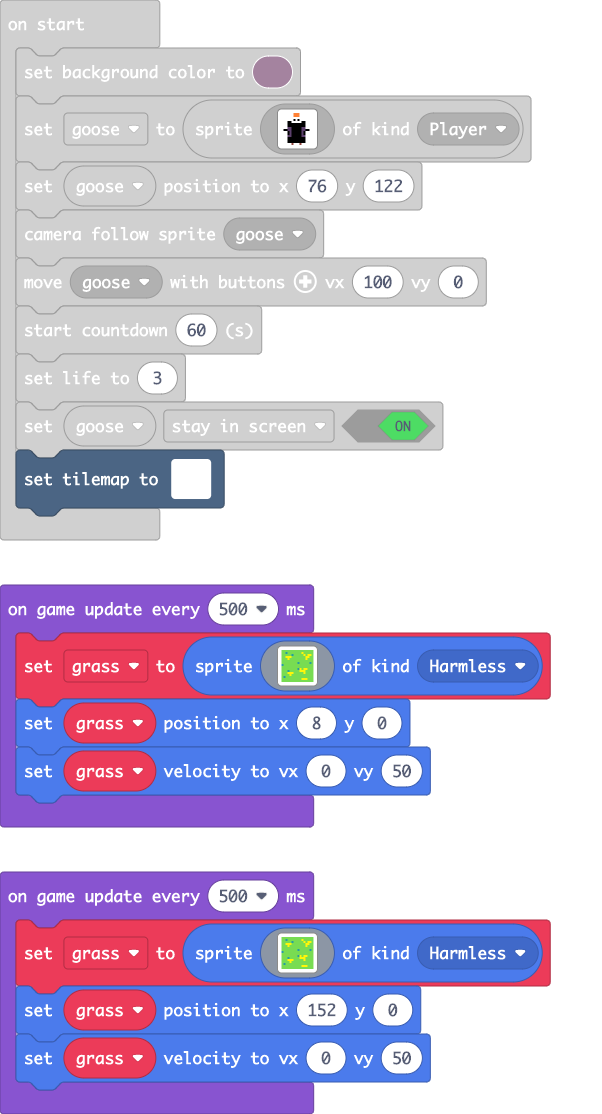
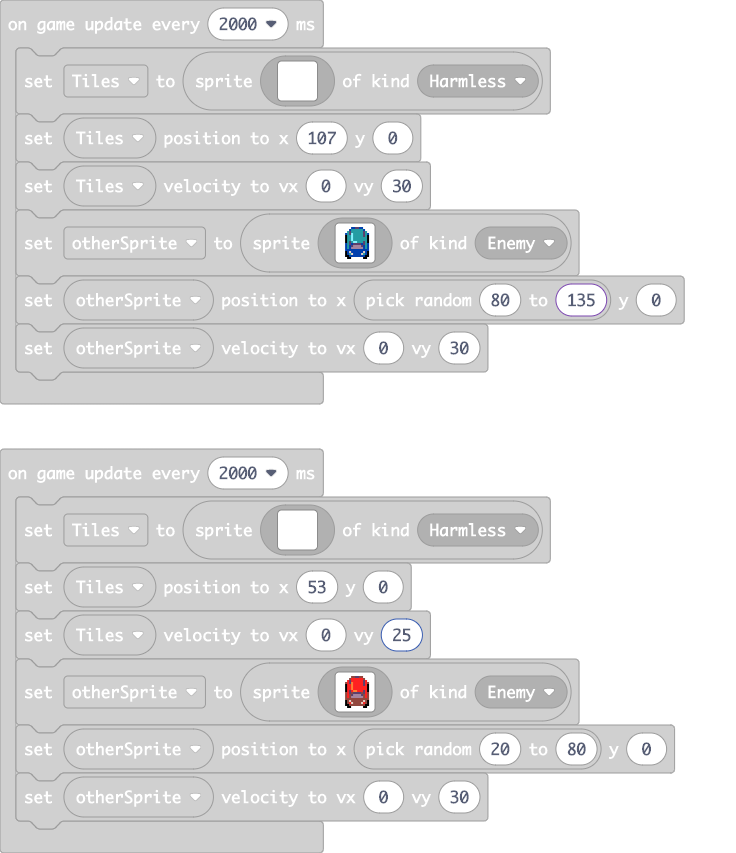
Update main.blocks, main.ts

diff --git a/main.ts b/main.ts
@@ -367,7 +367,7 @@ game.onUpdateInterval(2000, function () {
         . . . f f 8 8 8 8 8 8 8 8 f f . 
         . . . . f f . . . . . . f f . . 
         `, SpriteKind.Enemy)
-    otherSprite.setPosition(randint(80, 140), 0)
+    otherSprite.setPosition(randint(80, 135), 0)
     otherSprite.setVelocity(0, 30)
 })
 game.onUpdateInterval(2000, function () {
@@ -390,7 +390,7 @@ game.onUpdateInterval(2000, function () {
         . . . . 1 1 1 1 1 1 1 1 . . . . 
         `, SpriteKind.Harmless)
     Tiles.setPosition(53, 0)
-    Tiles.setVelocity(0, 30)
+    Tiles.setVelocity(0, 25)
     otherSprite = sprites.create(img`
         . . . . . . e e c c e e . . . . 
         . . . . . e 2 2 2 2 2 2 e . . . 
